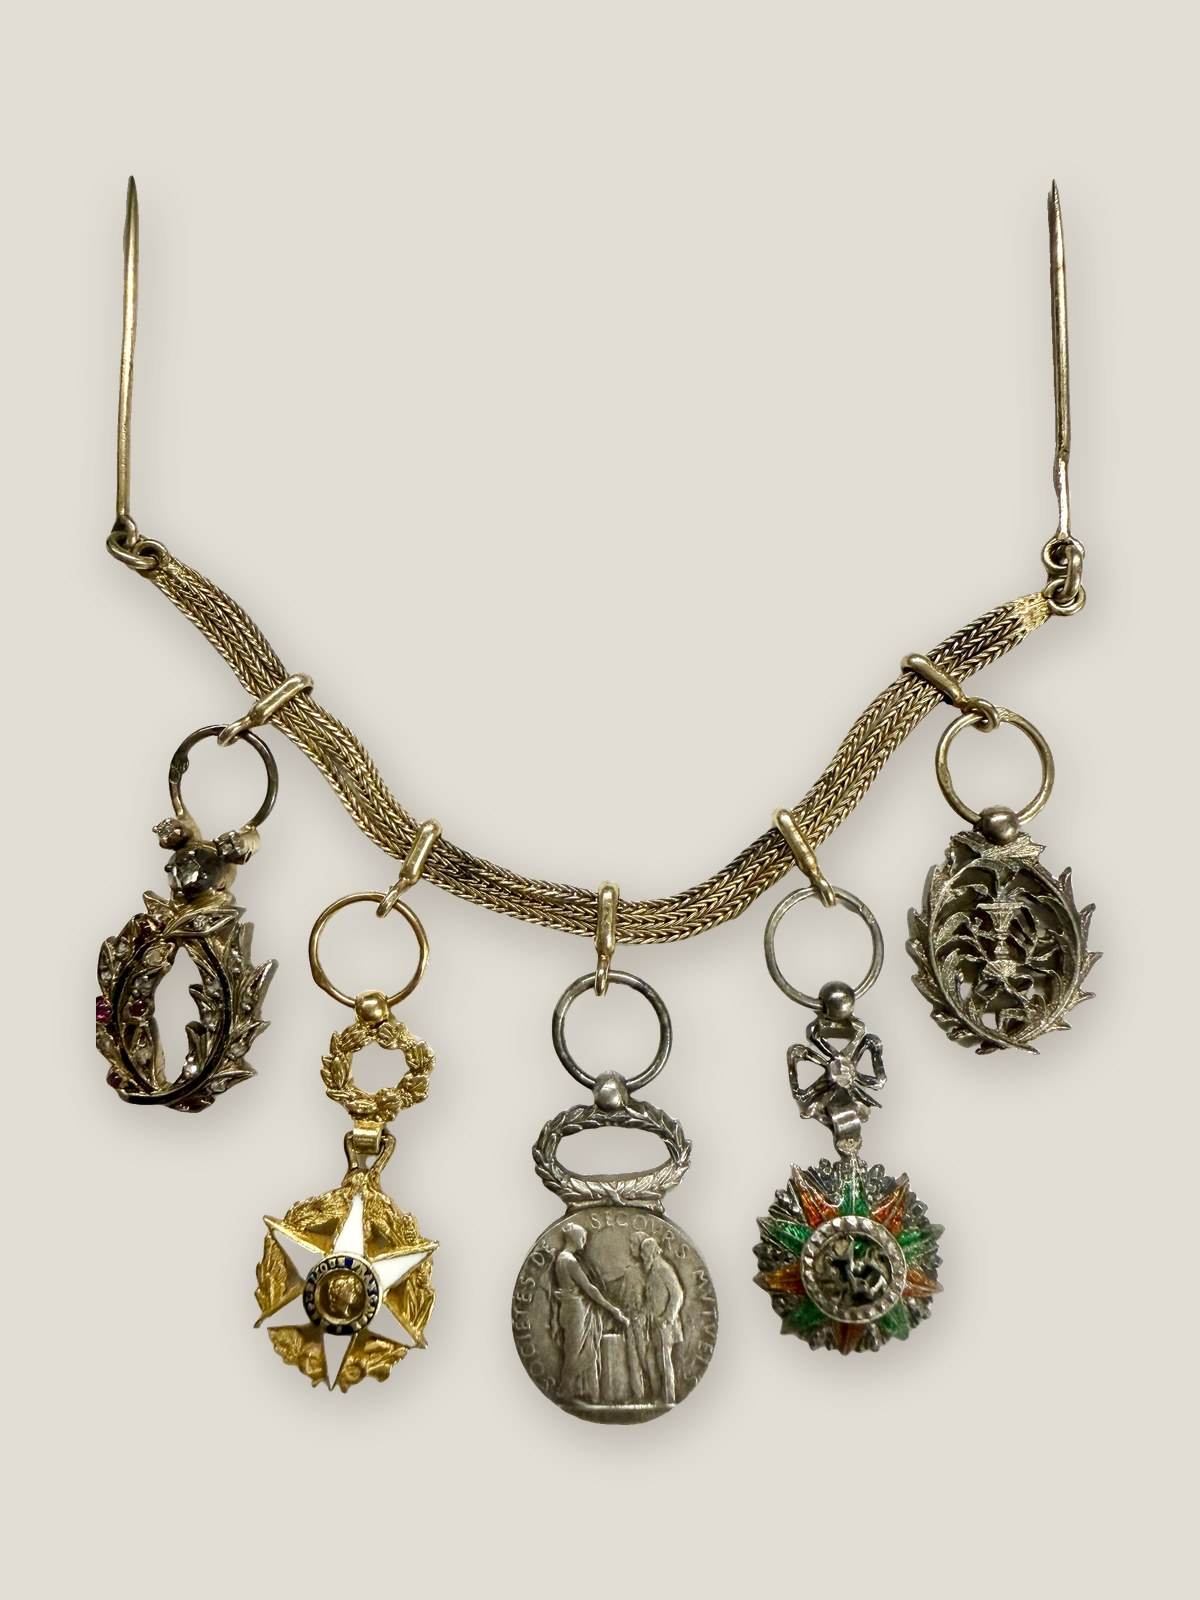
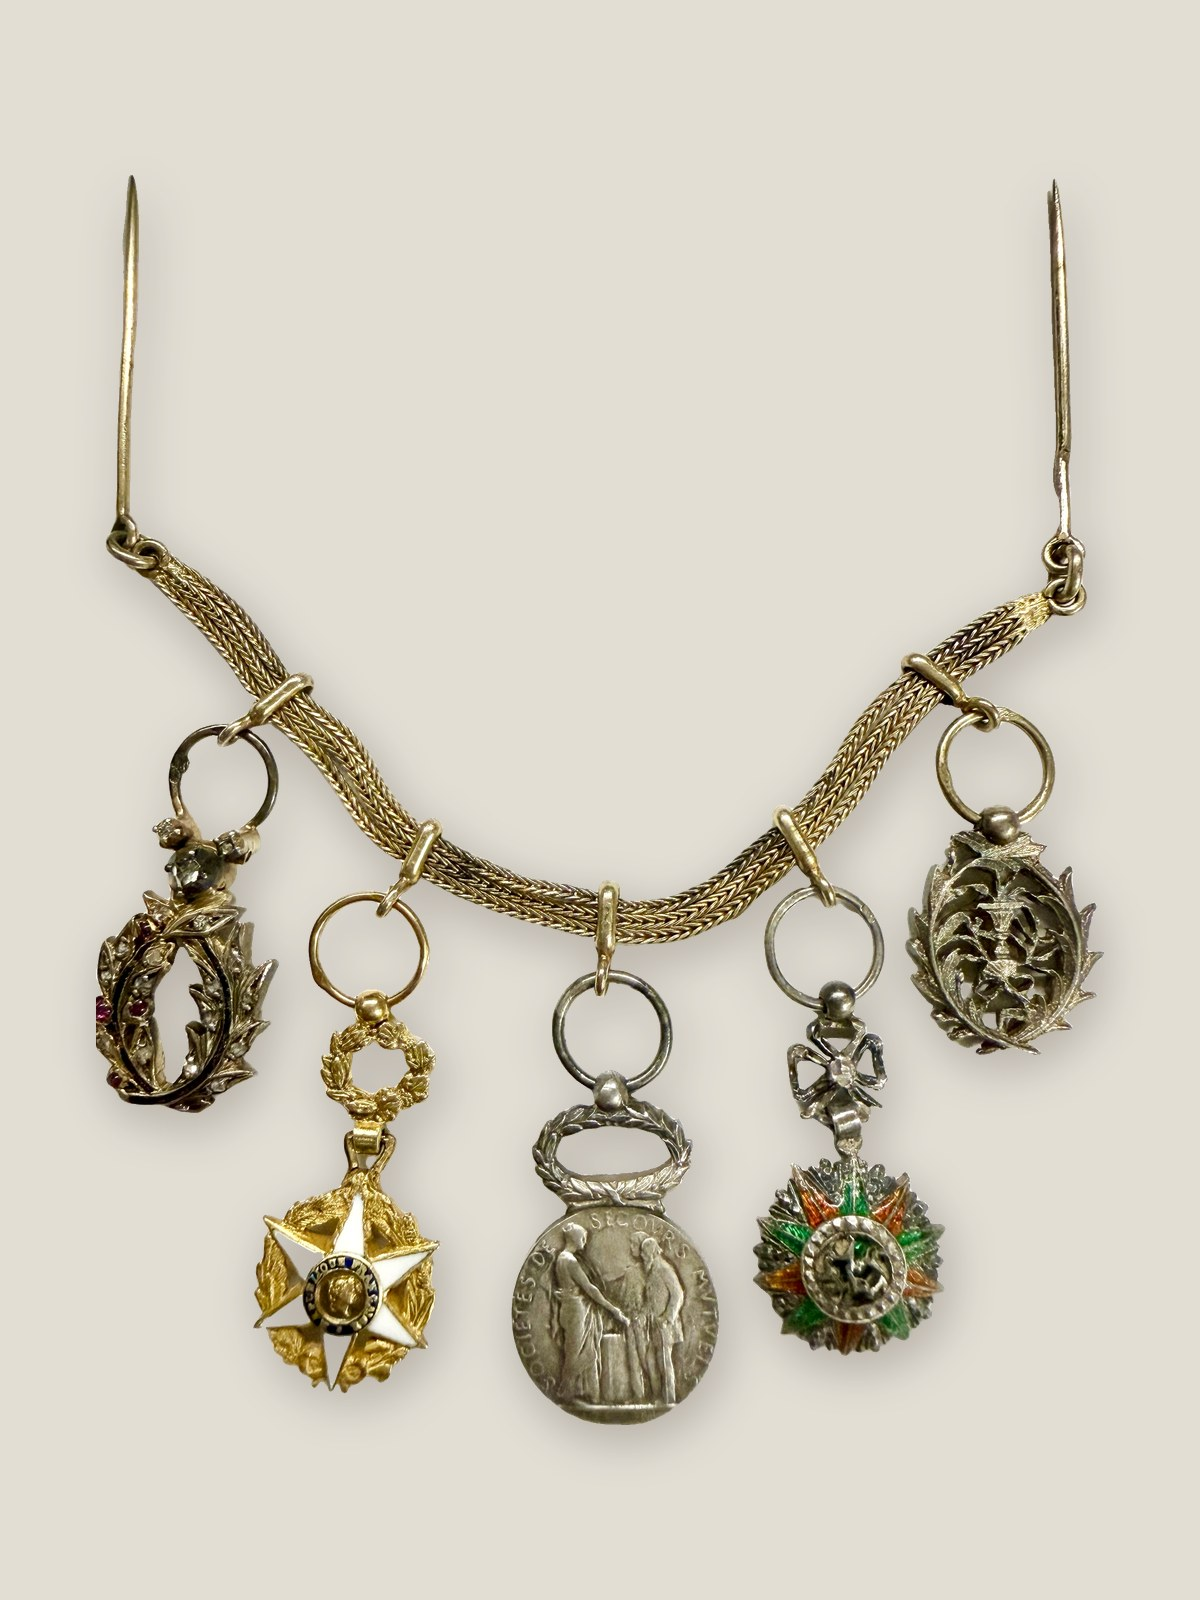
t028 封面换用新正面照
上一版原图移入 _archive（t028_v3）。手册同步。

Claude-Session: https://claude.ai/code/session_0146WwfpqSoST3wS5kAsYEcA

diff --git a/_notes/站点手册.md b/_notes/站点手册.md
@@ -204,7 +204,7 @@
 
 ## 六、待办与待补
 
-- t028 与 c016 的照片已于 2026 年 10 月到货，全部抠图置浅灰米底，补足 3:4（曾试 3:2 横图，策展人定仍用 3:4）。同月策展人另交一组六张替换首批：封面为链条 U 形下垂、两针朝上的正面照；札记 grid6 两列三行，第一行为整链正面与背面，以下依次为学术棕榈、农业功绩勋章、互助会奖章、突尼斯荣耀勋章的正面特写（c016b 背面，c016c–c016f 特写），左上、右上、左下、右下。四张特写原照顶端裁到吊环，抠图后吊环顶端为直边。首批原图存 `_archive/treasures/t028_v1.jpg` 与 `_archive/chronicles/c016b_v1.jpg`–`c016f_v1.jpg`。整链正面与背面随后换为策展人调亮的版本，前一版存 `_archive/treasures/t028_v2.jpg` 与 `_archive/chronicles/c016b_v2.jpg`。
+- t028 与 c016 的照片已于 2026 年 10 月到货，全部抠图置浅灰米底，补足 3:4（曾试 3:2 横图，策展人定仍用 3:4）。同月策展人另交一组六张替换首批：封面为链条 U 形下垂、两针朝上的正面照；札记 grid6 两列三行，第一行为整链正面与背面，以下依次为学术棕榈、农业功绩勋章、互助会奖章、突尼斯荣耀勋章的正面特写（c016b 背面，c016c–c016f 特写），左上、右上、左下、右下。四张特写原照顶端裁到吊环，抠图后吊环顶端为直边。首批原图存 `_archive/treasures/t028_v1.jpg` 与 `_archive/chronicles/c016b_v1.jpg`–`c016f_v1.jpg`。整链正面与背面随后换为策展人调亮的版本，前一版存 `_archive/treasures/t028_v2.jpg` 与 `_archive/chronicles/c016b_v2.jpg`。封面其后再换一次策展人新交的正面照，上一版存 `_archive/treasures/t028_v3.jpg`。
 - 建议重拍（原图长边不足 1000 像素）：r012、c002b、c008d（t014 与 c006b 已于 2026 年 10 月重拍）。r014、t025、r009、c002c、c008c、c009b 在 770 至 960 像素之间，有机会再补。
 - 断代依据（2026 年 10 月核定）：t021 荣誉军团为四共型，正面无「1870」、背面无创设日期，年份写「1951–1962」；t020 弗朗茨·约瑟夫像配战时绶带无剑饰，年份写「1914–1916」；t026 的 1928 年据埃及印记年号「D」，只在札记中说明，灯箱与卡片不写依据。t015 中心花押经与历任贝伊花押对照为穆罕默德八世·拉明的镂空式样：卡片年份保持「约1950」，灯箱著录只写「贝伊签名花押（1943–1957）」，贝伊名与统治期写在札记（2026 年 10 月，策展人决定）。待查：t027 Spink 迁址年份、t014 制作者印记。
 - 著录缺尺寸重量：t002、t017、t020。
